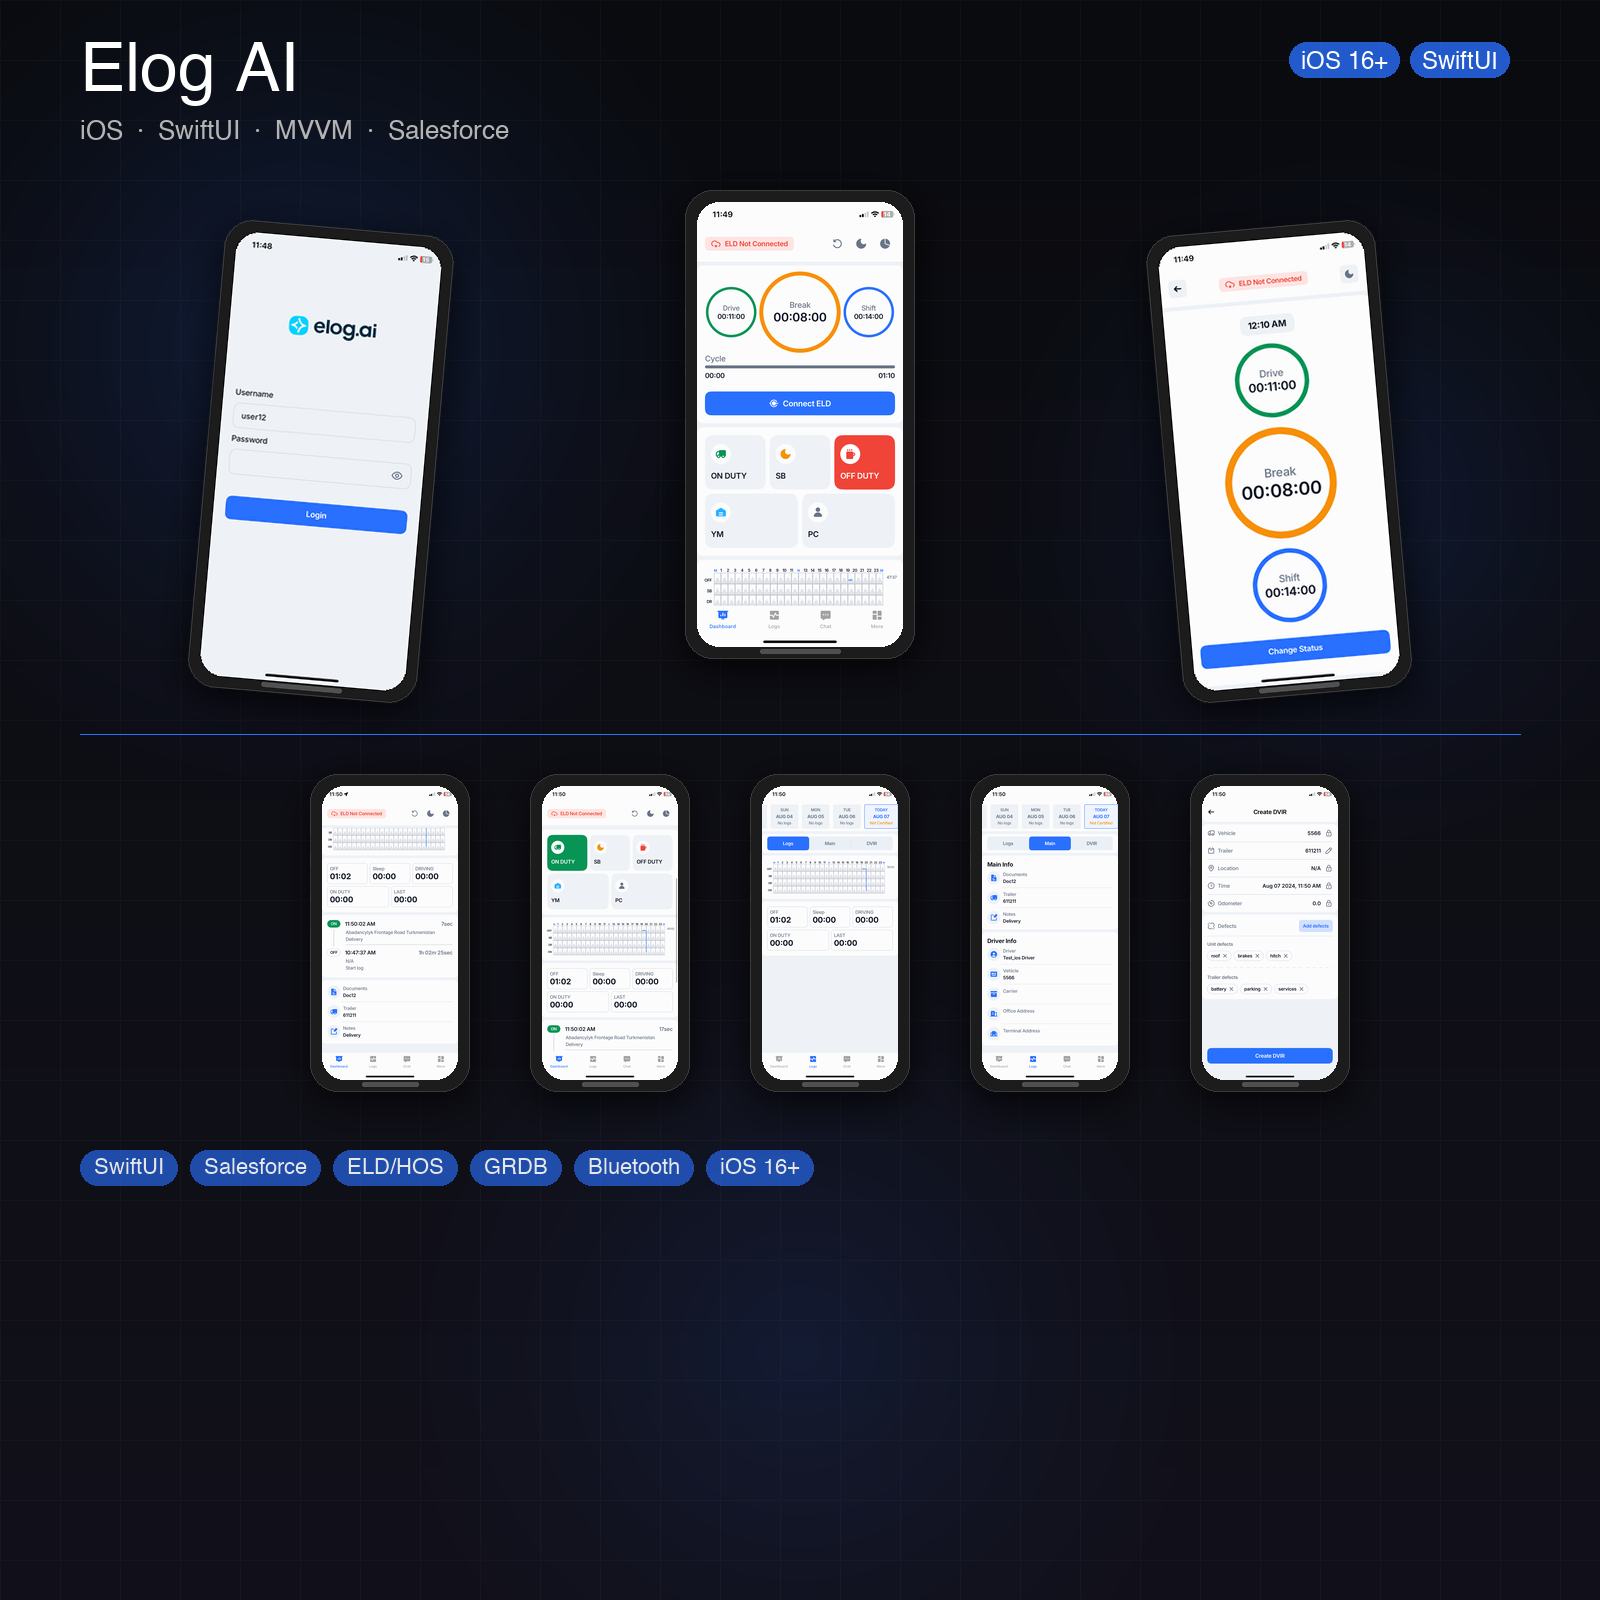
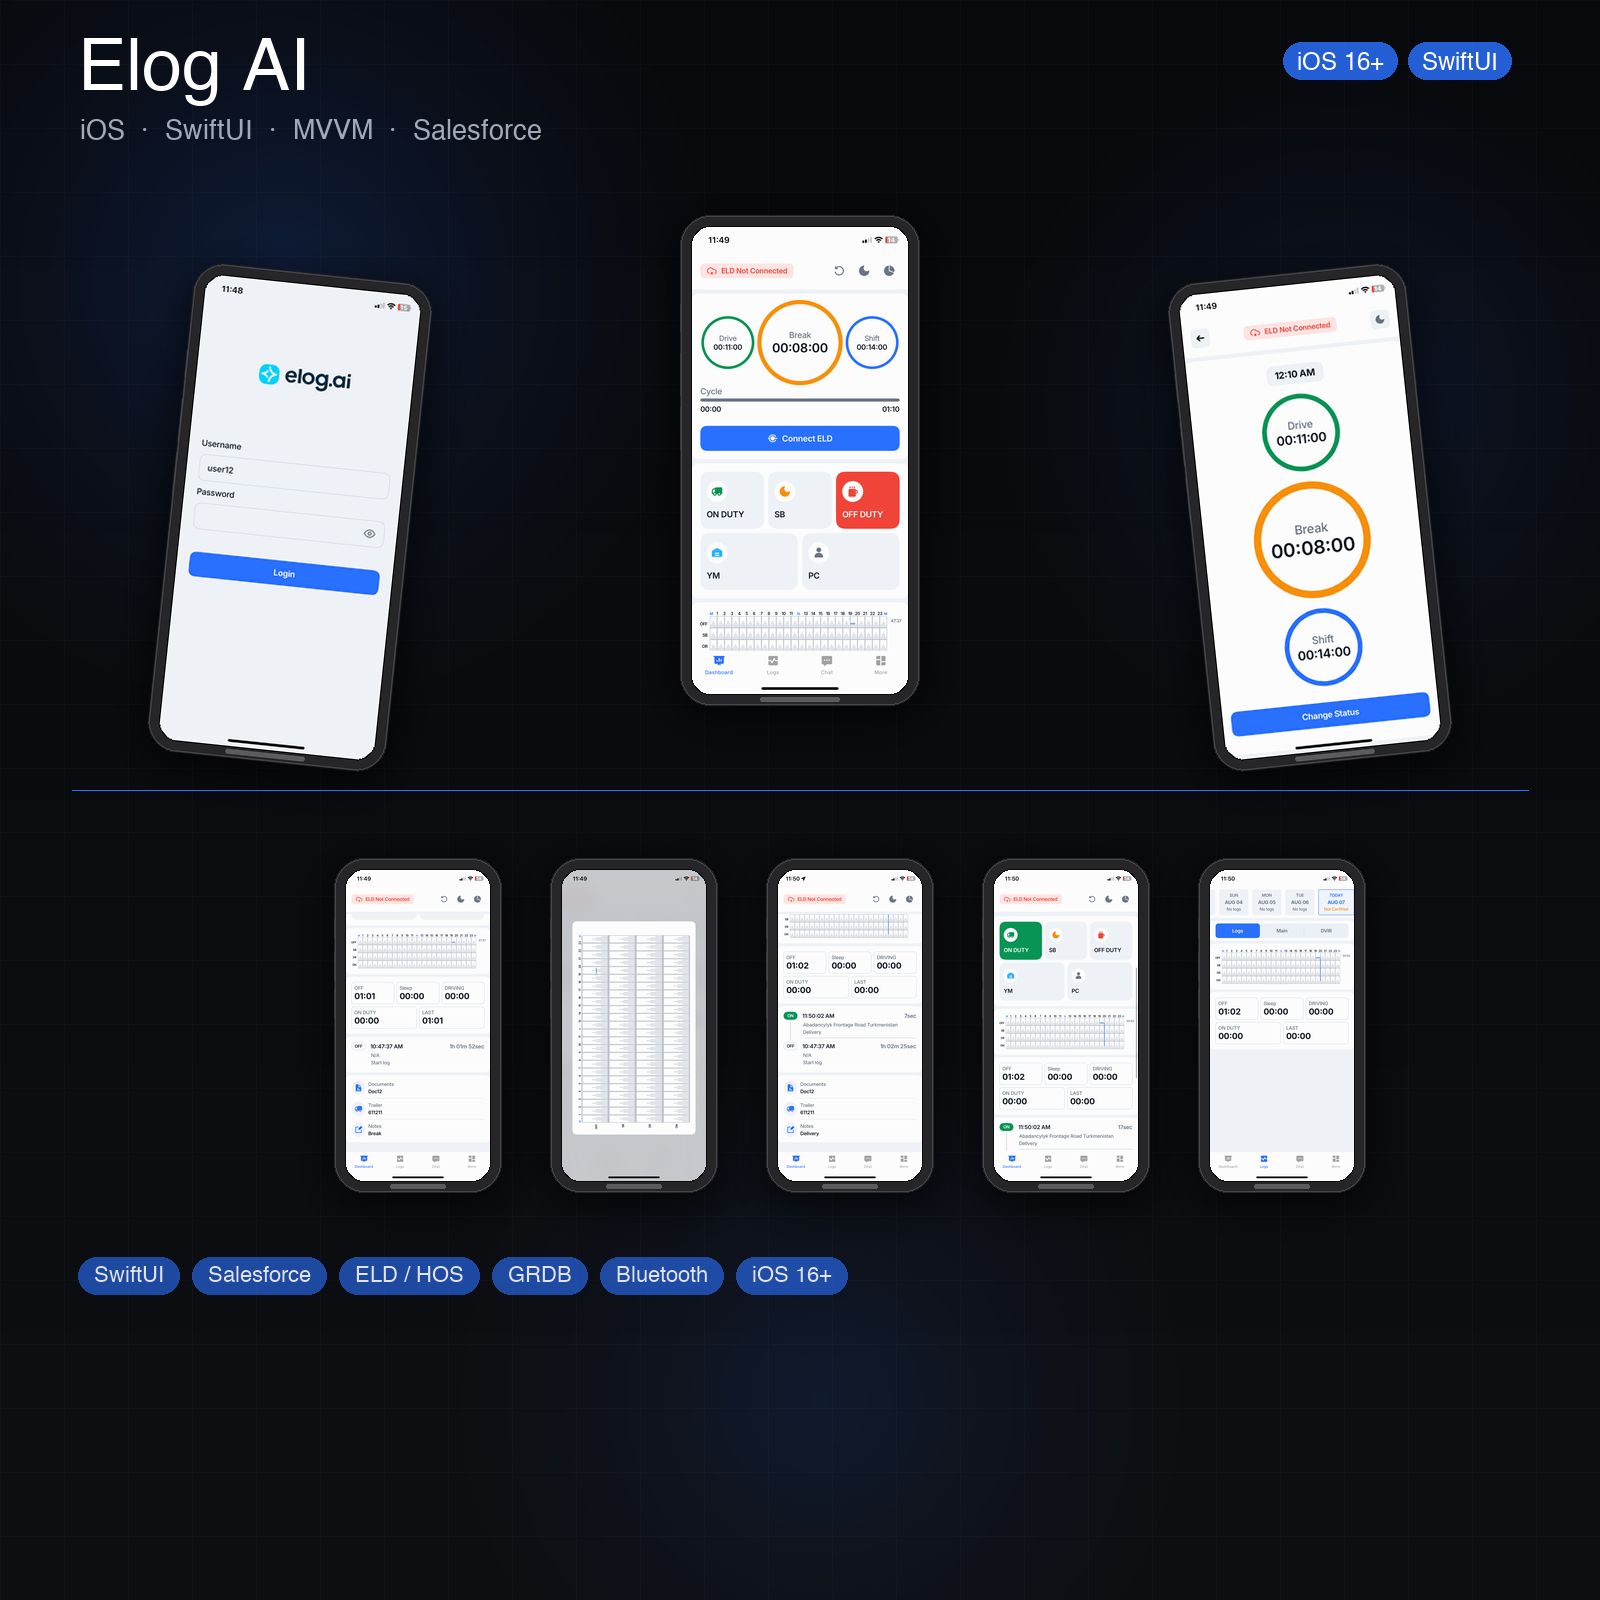
Fix hero button clicks and improve Elog AI preview image
- Add pointer-events:none to .hero-grid in all project pages so CTA buttons are clickable
- Regenerate portfolio-13.png with corrected iPhone frame corner radius and polished layout

diff --git a/projects/imessenger.html b/projects/imessenger.html
@@ -65,13 +65,12 @@
             background: radial-gradient(ellipse 80% 50% at 50% 0%, rgba(128,70,242,0.18) 0%, transparent 70%);
         }
         .hero-grid {
-            position: absolute; inset: 0;
+            position: absolute; inset: 0; pointer-events: none;
             background-image:
                 linear-gradient(rgba(128,70,242,0.06) 1px, transparent 1px),
                 linear-gradient(90deg, rgba(128,70,242,0.06) 1px, transparent 1px);
             background-size: 48px 48px;
-            mask-image: radial-gradient(ellipse 80% 60% at 50% 0%, black 30%, transparent 100%);
-        }
+            mask-image: radial-gradient(ellipse 80% 60% at 50% 0%, black 30%, transparent 100%);}
         .hero-badge {
             display: inline-flex; align-items: center; gap: 8px;
             background: var(--accent-faint); border: 1px solid var(--border);

diff --git a/projects/meninki.html b/projects/meninki.html
@@ -65,13 +65,12 @@
             background: radial-gradient(ellipse 80% 50% at 50% 0%, rgba(122,66,103,0.18) 0%, transparent 70%);
         }
         .hero-grid {
-            position: absolute; inset: 0;
+            position: absolute; inset: 0; pointer-events: none;
             background-image:
                 linear-gradient(rgba(122,66,103,0.06) 1px, transparent 1px),
                 linear-gradient(90deg, rgba(122,66,103,0.06) 1px, transparent 1px);
             background-size: 48px 48px;
-            mask-image: radial-gradient(ellipse 80% 60% at 50% 0%, black 30%, transparent 100%);
-        }
+            mask-image: radial-gradient(ellipse 80% 60% at 50% 0%, black 30%, transparent 100%);}
         .hero-badge {
             display: inline-flex; align-items: center; gap: 8px;
             background: var(--purple-faint); border: 1px solid var(--border);

diff --git a/projects/salam-messenger.html b/projects/salam-messenger.html
@@ -65,13 +65,12 @@
             background: radial-gradient(ellipse 80% 50% at 50% 0%, rgba(24,97,180,0.18) 0%, transparent 70%);
         }
         .hero-grid {
-            position: absolute; inset: 0;
+            position: absolute; inset: 0; pointer-events: none;
             background-image:
                 linear-gradient(rgba(24,97,180,0.06) 1px, transparent 1px),
                 linear-gradient(90deg, rgba(24,97,180,0.06) 1px, transparent 1px);
             background-size: 48px 48px;
-            mask-image: radial-gradient(ellipse 80% 60% at 50% 0%, black 30%, transparent 100%);
-        }
+            mask-image: radial-gradient(ellipse 80% 60% at 50% 0%, black 30%, transparent 100%);}
         .hero-badge {
             display: inline-flex; align-items: center; gap: 8px;
             background: var(--accent-faint); border: 1px solid var(--border);

diff --git a/projects/ytdownloader.html b/projects/ytdownloader.html
@@ -69,13 +69,12 @@
             background: radial-gradient(ellipse 80% 50% at 50% 0%, rgba(229,57,53,0.15) 0%, transparent 70%);
         }
         .hero-grid {
-            position: absolute; inset: 0;
+            position: absolute; inset: 0; pointer-events: none;
             background-image:
                 linear-gradient(rgba(229,57,53,0.05) 1px, transparent 1px),
                 linear-gradient(90deg, rgba(229,57,53,0.05) 1px, transparent 1px);
             background-size: 48px 48px;
-            mask-image: radial-gradient(ellipse 80% 60% at 50% 0%, black 30%, transparent 100%);
-        }
+            mask-image: radial-gradient(ellipse 80% 60% at 50% 0%, black 30%, transparent 100%);}
         .hero-badge {
             display: inline-flex; align-items: center; gap: 8px;
             background: var(--red-faint); border: 1px solid var(--border);

diff --git a/projects/clik.html b/projects/clik.html
@@ -91,8 +91,7 @@
                 linear-gradient(rgba(0,188,212,0.04) 1px, transparent 1px),
                 linear-gradient(90deg, rgba(0,188,212,0.04) 1px, transparent 1px);
             background-size: 48px 48px;
-            mask-image: radial-gradient(ellipse 80% 60% at 50% 0%, black 30%, transparent 100%);
-        }
+            mask-image: radial-gradient(ellipse 80% 60% at 50% 0%, black 30%, transparent 100%);}
         .hero-badge {
             display: inline-flex;
             align-items: center;

diff --git a/projects/altyn-yoda.html b/projects/altyn-yoda.html
@@ -37,7 +37,7 @@
         .nav-back:hover { color: var(--accent-bright); }
         .hero { min-height: 100vh; display: flex; flex-direction: column; align-items: center; justify-content: center; text-align: center; padding: 120px 24px 80px; position: relative; overflow: hidden; }
         .hero-bg { position: absolute; inset: 0; pointer-events: none; background: radial-gradient(ellipse 80% 50% at 50% 0%, rgba(240,172,60,0.18) 0%, transparent 70%); }
-        .hero-grid { position: absolute; inset: 0; background-image: linear-gradient(rgba(240,172,60,0.06) 1px, transparent 1px), linear-gradient(90deg, rgba(240,172,60,0.06) 1px, transparent 1px); background-size: 48px 48px; mask-image: radial-gradient(ellipse 80% 60% at 50% 0%, black 30%, transparent 100%); }
+        .hero-grid { position: absolute; inset: 0; pointer-events: none; background-image: linear-gradient(rgba(240,172,60,0.06) 1px, transparent 1px), linear-gradient(90deg, rgba(240,172,60,0.06) 1px, transparent 1px); background-size: 48px 48px; mask-image: radial-gradient(ellipse 80% 60% at 50% 0%, black 30%, transparent 100%);}
         .hero-badge { display: inline-flex; align-items: center; gap: 8px; background: var(--accent-faint); border: 1px solid var(--border); border-radius: 100px; padding: 6px 16px; font-size: 12px; font-weight: 700; color: var(--accent-bright); letter-spacing: 0.5px; text-transform: uppercase; margin-bottom: 28px; }
         .hero-badge .dot { width: 7px; height: 7px; border-radius: 50%; background: var(--accent-bright); animation: pulse 2s ease-in-out infinite; }
         @keyframes pulse { 0%,100%{opacity:1;transform:scale(1)} 50%{opacity:0.5;transform:scale(0.8)} }

diff --git a/projects/content-transfer.html b/projects/content-transfer.html
@@ -37,7 +37,7 @@
         .nav-back:hover { color: var(--accent-bright); }
         .hero { min-height: 100vh; display: flex; flex-direction: column; align-items: center; justify-content: center; text-align: center; padding: 120px 24px 80px; position: relative; overflow: hidden; }
         .hero-bg { position: absolute; inset: 0; pointer-events: none; background: radial-gradient(ellipse 80% 50% at 50% 0%, rgba(124,223,195,0.18) 0%, transparent 70%); }
-        .hero-grid { position: absolute; inset: 0; background-image: linear-gradient(rgba(124,223,195,0.06) 1px, transparent 1px), linear-gradient(90deg, rgba(124,223,195,0.06) 1px, transparent 1px); background-size: 48px 48px; mask-image: radial-gradient(ellipse 80% 60% at 50% 0%, black 30%, transparent 100%); }
+        .hero-grid { position: absolute; inset: 0; pointer-events: none; background-image: linear-gradient(rgba(124,223,195,0.06) 1px, transparent 1px), linear-gradient(90deg, rgba(124,223,195,0.06) 1px, transparent 1px); background-size: 48px 48px; mask-image: radial-gradient(ellipse 80% 60% at 50% 0%, black 30%, transparent 100%);}
         .hero-badge { display: inline-flex; align-items: center; gap: 8px; background: var(--accent-faint); border: 1px solid var(--border); border-radius: 100px; padding: 6px 16px; font-size: 12px; font-weight: 700; color: var(--accent-bright); letter-spacing: 0.5px; text-transform: uppercase; margin-bottom: 28px; }
         .hero-badge .dot { width: 7px; height: 7px; border-radius: 50%; background: var(--accent-bright); animation: pulse 2s ease-in-out infinite; }
         @keyframes pulse { 0%,100%{opacity:1;transform:scale(1)} 50%{opacity:0.5;transform:scale(0.8)} }

diff --git a/projects/elog.html b/projects/elog.html
@@ -65,7 +65,7 @@
             background: radial-gradient(ellipse 80% 50% at 50% 0%, rgba(41,112,255,0.18) 0%, transparent 70%);
         }
         .hero-grid {
-            position: absolute; inset: 0;
+            position: absolute; inset: 0; pointer-events: none;
             background-image:
                 linear-gradient(rgba(41,112,255,0.06) 1px, transparent 1px),
                 linear-gradient(90deg, rgba(41,112,255,0.06) 1px, transparent 1px);

diff --git a/projects/kinestex.html b/projects/kinestex.html
@@ -37,7 +37,7 @@
         .nav-back:hover { color: var(--accent-bright); }
         .hero { min-height: 100vh; display: flex; flex-direction: column; align-items: center; justify-content: center; text-align: center; padding: 120px 24px 80px; position: relative; overflow: hidden; }
         .hero-bg { position: absolute; inset: 0; pointer-events: none; background: radial-gradient(ellipse 80% 50% at 50% 0%, rgba(0,229,90,0.18) 0%, transparent 70%); }
-        .hero-grid { position: absolute; inset: 0; background-image: linear-gradient(rgba(0,229,90,0.06) 1px, transparent 1px), linear-gradient(90deg, rgba(0,229,90,0.06) 1px, transparent 1px); background-size: 48px 48px; mask-image: radial-gradient(ellipse 80% 60% at 50% 0%, black 30%, transparent 100%); }
+        .hero-grid { position: absolute; inset: 0; pointer-events: none; background-image: linear-gradient(rgba(0,229,90,0.06) 1px, transparent 1px), linear-gradient(90deg, rgba(0,229,90,0.06) 1px, transparent 1px); background-size: 48px 48px; mask-image: radial-gradient(ellipse 80% 60% at 50% 0%, black 30%, transparent 100%);}
         .hero-badge { display: inline-flex; align-items: center; gap: 8px; background: var(--accent-faint); border: 1px solid var(--border); border-radius: 100px; padding: 6px 16px; font-size: 12px; font-weight: 700; color: var(--accent-bright); letter-spacing: 0.5px; text-transform: uppercase; margin-bottom: 28px; }
         .hero-badge .dot { width: 7px; height: 7px; border-radius: 50%; background: var(--accent-bright); animation: pulse 2s ease-in-out infinite; }
         @keyframes pulse { 0%,100%{opacity:1;transform:scale(1)} 50%{opacity:0.5;transform:scale(0.8)} }

diff --git a/projects/live-concert.html b/projects/live-concert.html
@@ -37,7 +37,7 @@
         .nav-back:hover { color: var(--accent-bright); }
         .hero { min-height: 100vh; display: flex; flex-direction: column; align-items: center; justify-content: center; text-align: center; padding: 120px 24px 80px; position: relative; overflow: hidden; }
         .hero-bg { position: absolute; inset: 0; pointer-events: none; background: radial-gradient(ellipse 80% 50% at 50% 0%, rgba(105,115,192,0.18) 0%, transparent 70%); }
-        .hero-grid { position: absolute; inset: 0; background-image: linear-gradient(rgba(105,115,192,0.06) 1px, transparent 1px), linear-gradient(90deg, rgba(105,115,192,0.06) 1px, transparent 1px); background-size: 48px 48px; mask-image: radial-gradient(ellipse 80% 60% at 50% 0%, black 30%, transparent 100%); }
+        .hero-grid { position: absolute; inset: 0; pointer-events: none; background-image: linear-gradient(rgba(105,115,192,0.06) 1px, transparent 1px), linear-gradient(90deg, rgba(105,115,192,0.06) 1px, transparent 1px); background-size: 48px 48px; mask-image: radial-gradient(ellipse 80% 60% at 50% 0%, black 30%, transparent 100%);}
         .hero-badge { display: inline-flex; align-items: center; gap: 8px; background: var(--accent-faint); border: 1px solid var(--border); border-radius: 100px; padding: 6px 16px; font-size: 12px; font-weight: 700; color: var(--accent-bright); letter-spacing: 0.5px; text-transform: uppercase; margin-bottom: 28px; }
         .hero-badge .dot { width: 7px; height: 7px; border-radius: 50%; background: var(--accent-bright); animation: pulse 2s ease-in-out infinite; }
         @keyframes pulse { 0%,100%{opacity:1;transform:scale(1)} 50%{opacity:0.5;transform:scale(0.8)} }

diff --git a/projects/miu-love.html b/projects/miu-love.html
@@ -37,7 +37,7 @@
         .nav-back:hover { color: var(--accent-bright); }
         .hero { min-height: 100vh; display: flex; flex-direction: column; align-items: center; justify-content: center; text-align: center; padding: 120px 24px 80px; position: relative; overflow: hidden; }
         .hero-bg { position: absolute; inset: 0; pointer-events: none; background: radial-gradient(ellipse 80% 50% at 50% 0%, rgba(255,119,130,0.18) 0%, transparent 70%); }
-        .hero-grid { position: absolute; inset: 0; background-image: linear-gradient(rgba(255,119,130,0.06) 1px, transparent 1px), linear-gradient(90deg, rgba(255,119,130,0.06) 1px, transparent 1px); background-size: 48px 48px; mask-image: radial-gradient(ellipse 80% 60% at 50% 0%, black 30%, transparent 100%); }
+        .hero-grid { position: absolute; inset: 0; pointer-events: none; background-image: linear-gradient(rgba(255,119,130,0.06) 1px, transparent 1px), linear-gradient(90deg, rgba(255,119,130,0.06) 1px, transparent 1px); background-size: 48px 48px; mask-image: radial-gradient(ellipse 80% 60% at 50% 0%, black 30%, transparent 100%);}
         .hero-badge { display: inline-flex; align-items: center; gap: 8px; background: var(--accent-faint); border: 1px solid var(--border); border-radius: 100px; padding: 6px 16px; font-size: 12px; font-weight: 700; color: var(--accent-bright); letter-spacing: 0.5px; text-transform: uppercase; margin-bottom: 28px; }
         .hero-badge .dot { width: 7px; height: 7px; border-radius: 50%; background: var(--accent-bright); animation: pulse 2s ease-in-out infinite; }
         @keyframes pulse { 0%,100%{opacity:1;transform:scale(1)} 50%{opacity:0.5;transform:scale(0.8)} }

diff --git a/projects/salam-express.html b/projects/salam-express.html
@@ -37,7 +37,7 @@
         .nav-back:hover { color: var(--accent-bright); }
         .hero { min-height: 100vh; display: flex; flex-direction: column; align-items: center; justify-content: center; text-align: center; padding: 120px 24px 80px; position: relative; overflow: hidden; }
         .hero-bg { position: absolute; inset: 0; pointer-events: none; background: radial-gradient(ellipse 80% 50% at 50% 0%, rgba(24,85,168,0.18) 0%, transparent 70%); }
-        .hero-grid { position: absolute; inset: 0; background-image: linear-gradient(rgba(24,85,168,0.06) 1px, transparent 1px), linear-gradient(90deg, rgba(24,85,168,0.06) 1px, transparent 1px); background-size: 48px 48px; mask-image: radial-gradient(ellipse 80% 60% at 50% 0%, black 30%, transparent 100%); }
+        .hero-grid { position: absolute; inset: 0; pointer-events: none; background-image: linear-gradient(rgba(24,85,168,0.06) 1px, transparent 1px), linear-gradient(90deg, rgba(24,85,168,0.06) 1px, transparent 1px); background-size: 48px 48px; mask-image: radial-gradient(ellipse 80% 60% at 50% 0%, black 30%, transparent 100%);}
         .hero-badge { display: inline-flex; align-items: center; gap: 8px; background: var(--accent-faint); border: 1px solid var(--border); border-radius: 100px; padding: 6px 16px; font-size: 12px; font-weight: 700; color: var(--accent-bright); letter-spacing: 0.5px; text-transform: uppercase; margin-bottom: 28px; }
         .hero-badge .dot { width: 7px; height: 7px; border-radius: 50%; background: var(--accent-bright); animation: pulse 2s ease-in-out infinite; }
         @keyframes pulse { 0%,100%{opacity:1;transform:scale(1)} 50%{opacity:0.5;transform:scale(0.8)} }